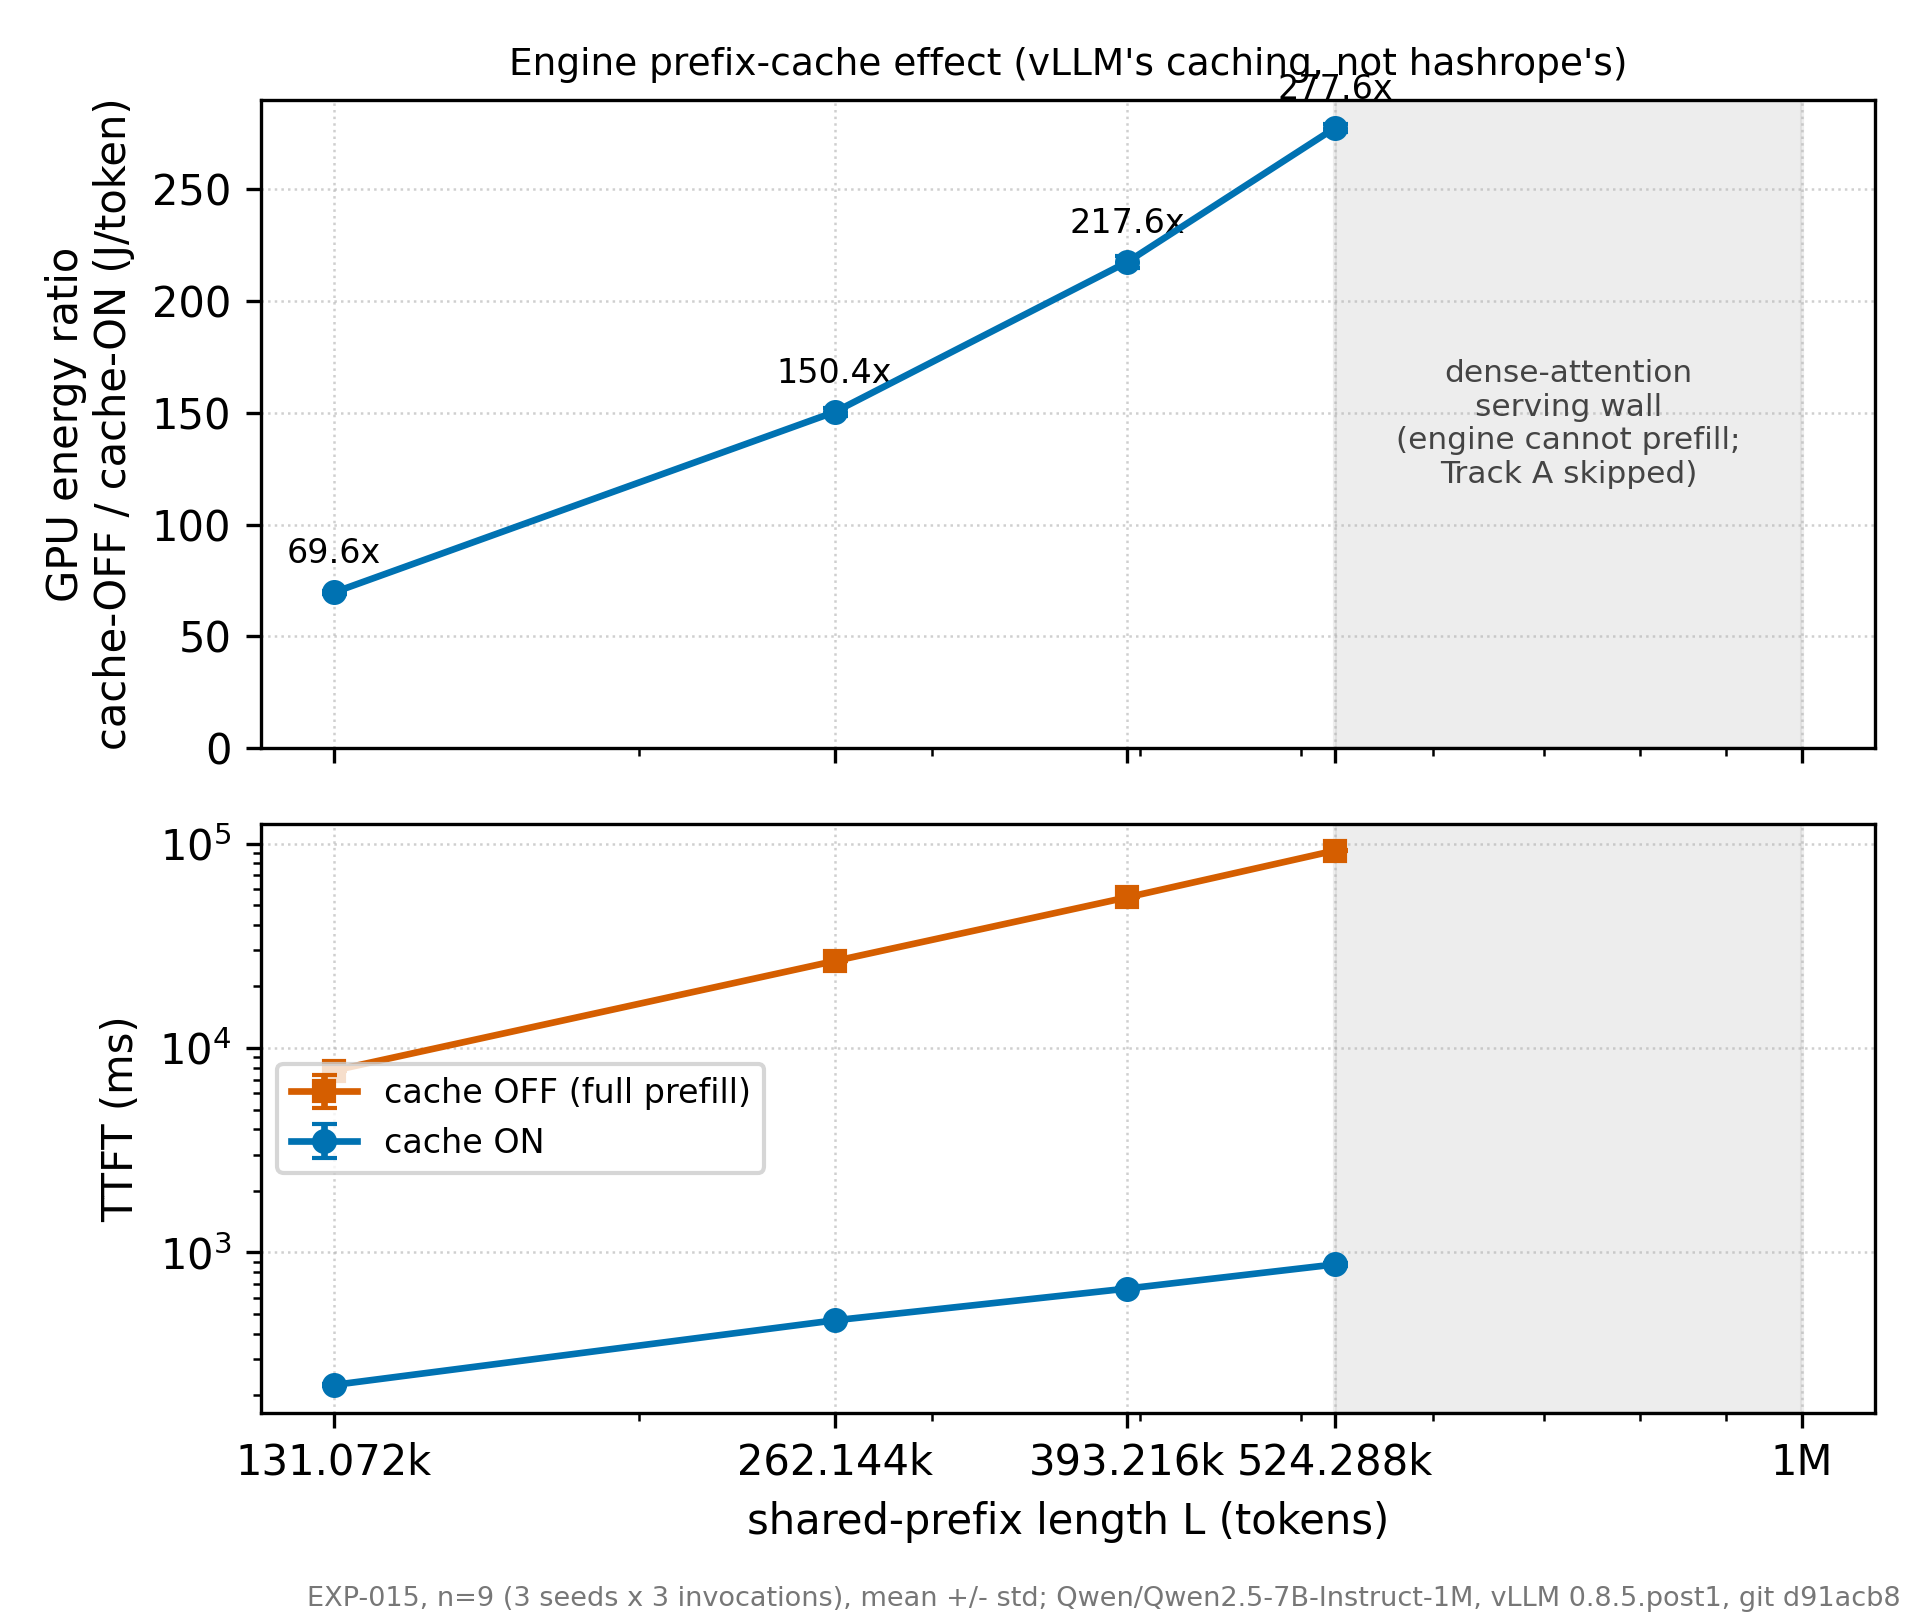
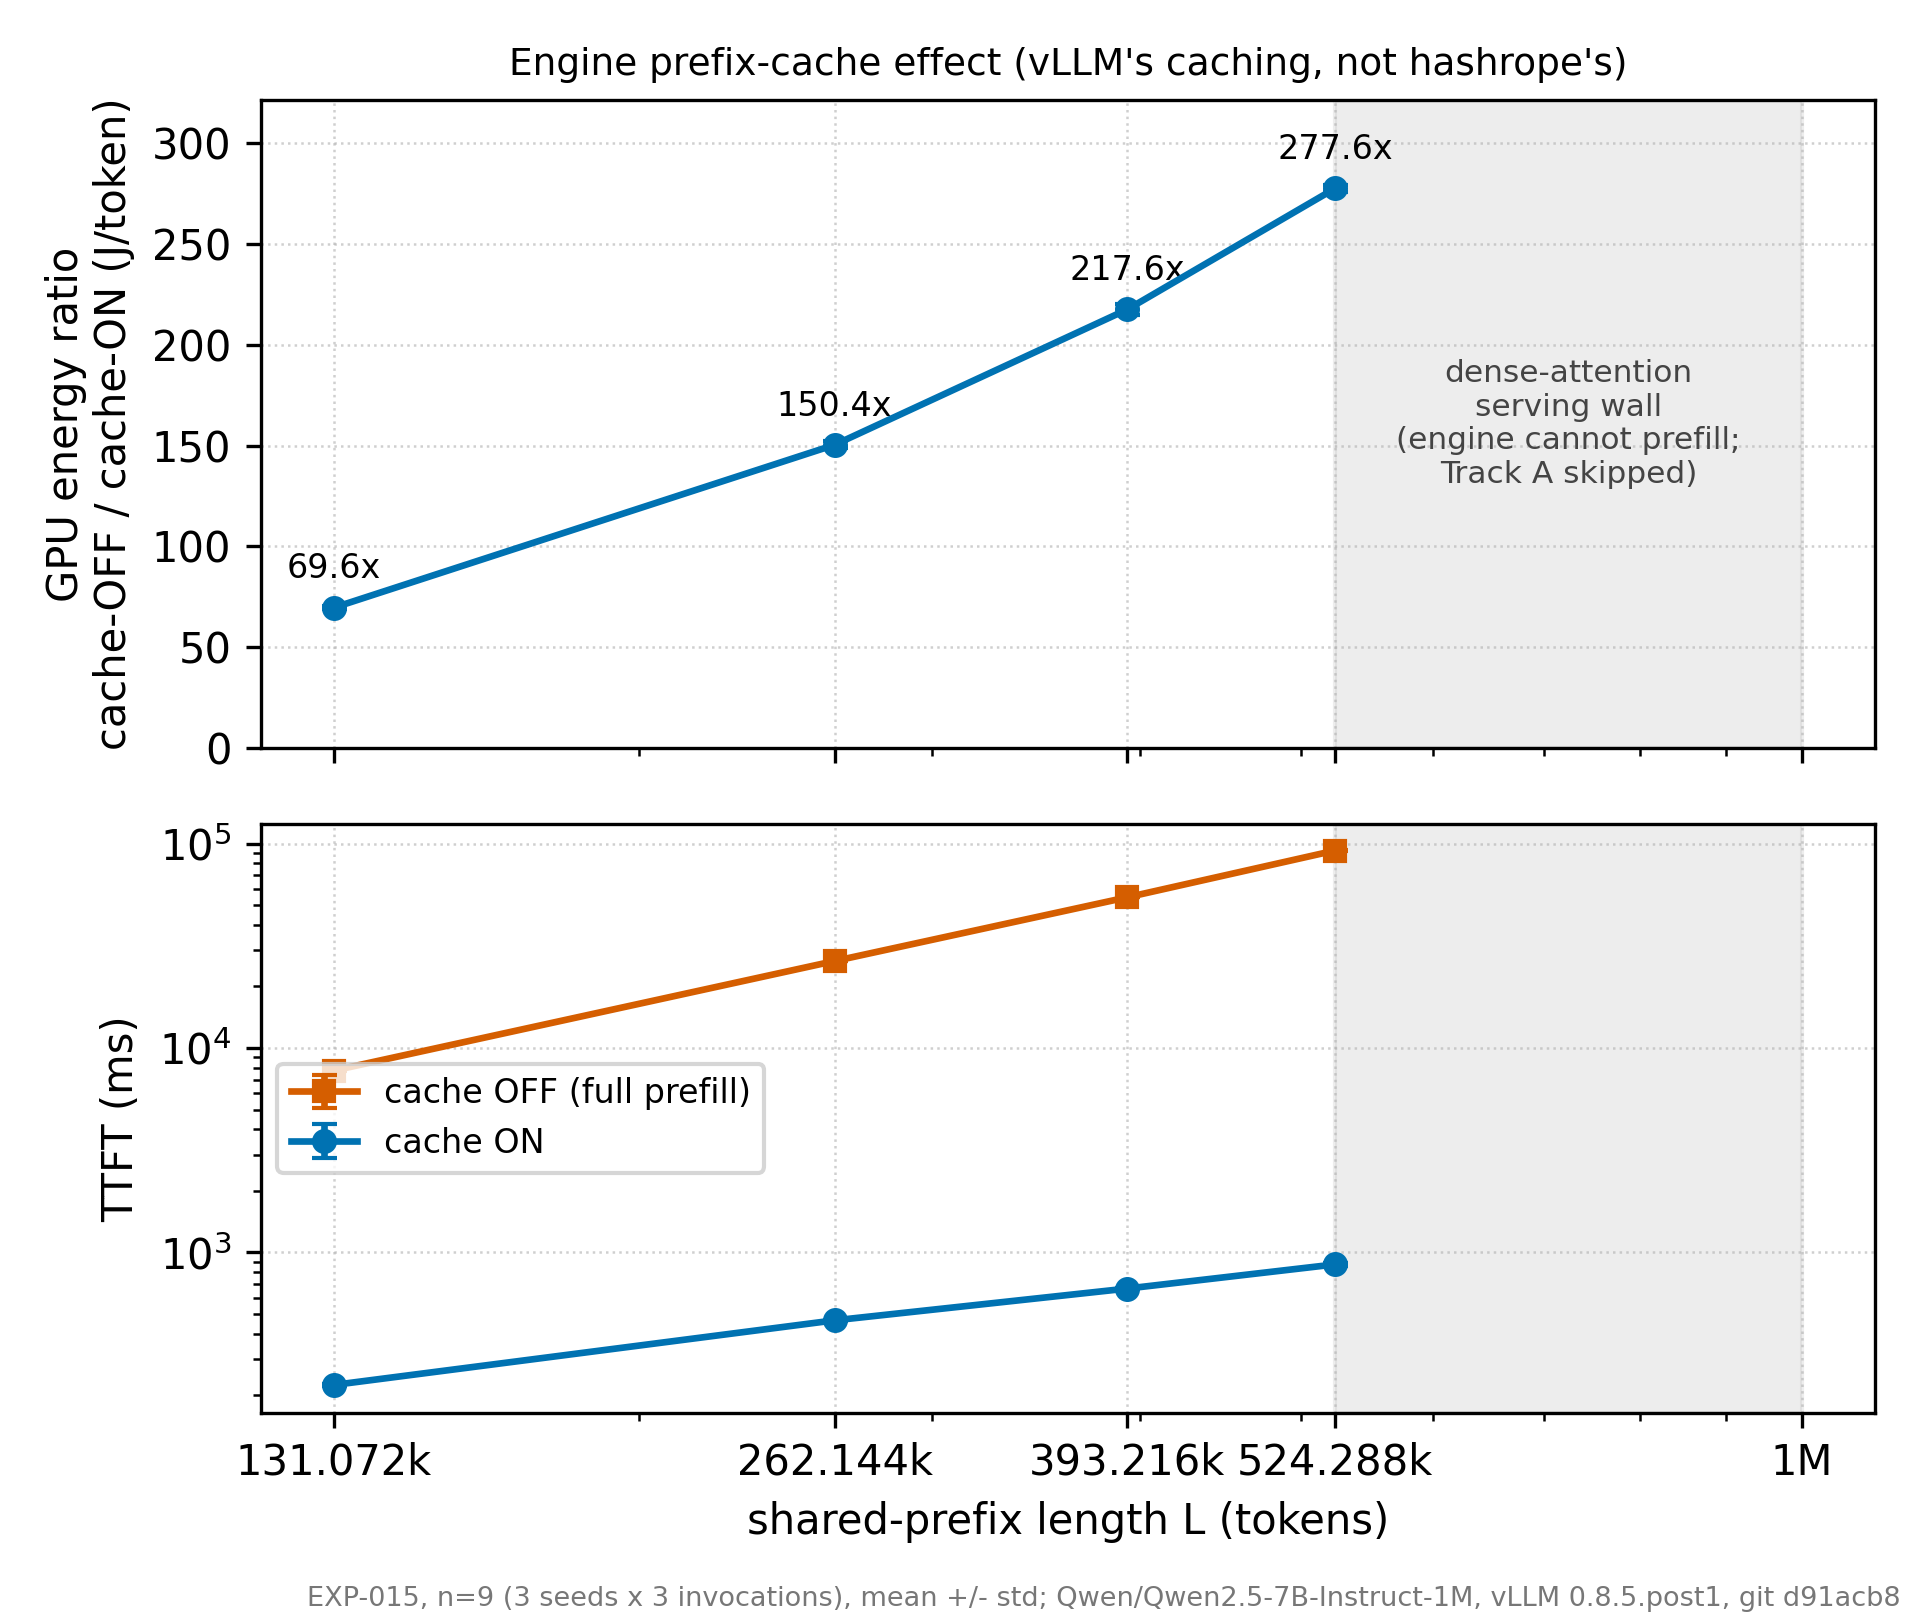
fix(figures): Fig. 5 headroom so the 277.6x label clears the panel title

diff --git a/scripts/exp015_figures.py b/scripts/exp015_figures.py
@@ -226,7 +226,8 @@ def fig_caching_energy(summary, out_stem: Path, footer=True):
                      textcoords="offset points", ha="center", fontsize=8)
     ax1.set_ylabel("GPU energy ratio\ncache-OFF / cache-ON (J/token)")
     ax1.grid(True, which="major", ls=":", lw=0.6, alpha=0.6)
-    ax1.set_ylim(bottom=0)
+    # camera-ready: 15% headroom so the top value label clears the panel title
+    ax1.set_ylim(0, max(m + s for m, s in zip(ta["ratio_mean"], ta["ratio_std"])) * 1.15)
 
     # bottom: TTFT OFF vs ON
     ax2.errorbar(Ls, ta["ttft_off"], yerr=ta["ttft_off_std"], color=C_OFF,
